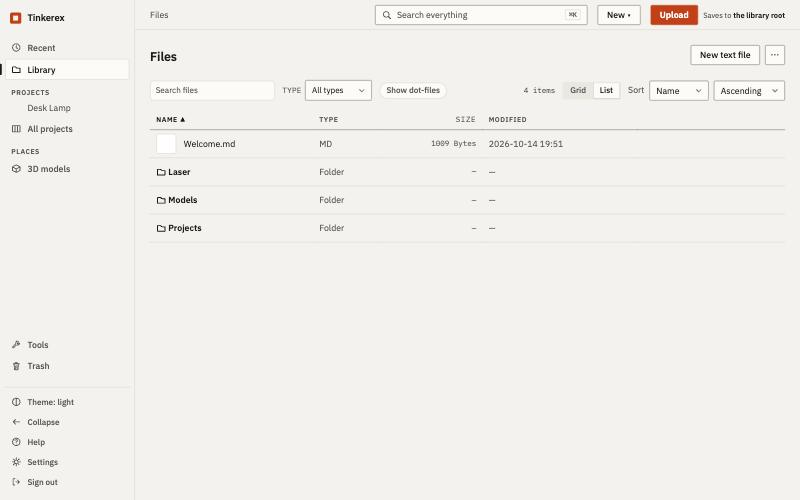
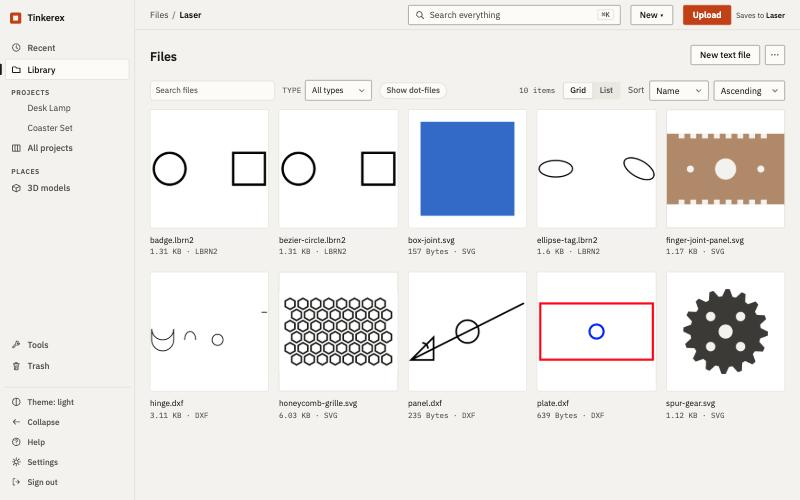
The landing's masthead stands alone, the hero centres beside the card, and the screenshots show a stocked library
The first cut put the brand in the hero AND kept it in the card, which read as a header with a
logo at both ends, and left a hole under the hero's text while the card ran on below it. The
masthead is now its own grid row above the hero; the card spans both rows and the hero centres
against it; the card drops its brand on this one page (auth_pages_test asserts the masthead's).

The three screenshots were of the public demo's near-empty library (a four-row list, a project
page with a broken README image, a static cube). They are now the app over a small sample
library on a local server: a laser folder's grid with real previews, the Desk Lamp project with
its README and rendered tiles, and an STL open in the 3D viewer. Same size, same theme, no
doctoring; the invariants note says what they are.

Verified: 49 runs green across the landing suites, the auth pages, the demo session, the CSS,
docs, template and emoji hygiene, and the landing's browser test (desktop placement, 375px
stacking, no sideways scroll); checked by eye at 1280 and 375 in both themes.

diff --git a/app/assets/stylesheets/pages/landing.css b/app/assets/stylesheets/pages/landing.css
@@ -10,34 +10,39 @@
      variant from the view and checks that it wins. */
   .landing-main { max-width: 1200px; padding-top: var(--space-6); padding-bottom: var(--space-8); }
 
-  /* ONE GRID, TWO SHAPES. A phone reads hero, card, screenshots down the page; from 900px the card
-     stands beside the hero and the screenshots run the full width under both. Named areas rather
-     than source order, so the card's DOM position (after the hero, before the shots) is the phone
-     order and the desktop placement is this sheet's business alone. `minmax(0, 1fr)` and not `1fr`:
+  /* ONE GRID, TWO SHAPES. A phone reads masthead, hero, card, screenshots down the page; from
+     900px the card stands beside the masthead and the hero, spanning both rows, and the screenshots
+     run the full width under everything. Named areas rather than source order, so the card's DOM
+     position (after the hero, before the shots) is the phone order and the desktop placement is
+     this sheet's business alone. The hero centres itself against the card (align-self), so the
+     headline sits level with the form rather than leaving a hole under itself. `minmax(0, 1fr)` and not `1fr`:
      a grid track's default minimum is its content's min-width, and an 800px image in a figure would
      hold the track open past the viewport, which is the sideways scroll rule 11 forbids. */
   .landing {
     display: grid; gap: var(--space-6);
     grid-template-columns: minmax(0, 1fr);
-    grid-template-areas: "hero" "auth" "shots";
+    grid-template-areas: "brand" "hero" "auth" "shots";
   }
+  .landing-brand { grid-area: brand; }
   .landing-hero { grid-area: hero; }
   .landing-auth { grid-area: auth; }
   .landing-shots { grid-area: shots; }
   @media (min-width: 900px) {
     .landing {
       grid-template-columns: minmax(0, 1fr) 380px;
-      grid-template-areas: "hero auth" "shots shots";
-      column-gap: var(--space-7); row-gap: var(--space-7);
+      grid-template-areas: "brand auth" "hero auth" "shots shots";
+      grid-template-rows: auto 1fr auto;
+      column-gap: var(--space-7); row-gap: var(--space-6);
       align-items: start;
     }
+    .landing-hero { align-self: center; }
   }
 
   /* The masthead is the rail's own `.brand` markup, reused (shell.css defines it once). The ≤1099px
-     rail rules hide `.brand-name` for the collapsed rail; the public header restores it with the
-     same one-line override this does. */
-  .landing-hero .brand { padding: 0; margin-bottom: var(--space-6); }
-  .landing-hero .brand-name { display: inline; }
+     rail rules hide `.brand-name` and centre `.brand` for the collapsed rail; the public header
+     restores the name with the same one-line override this does. */
+  .landing-brand { justify-content: flex-start; padding: 0; margin: 0; }
+  .landing-brand .brand-name { display: inline; }
   .landing-title { font-size: 36px; line-height: 42px; font-weight: 600; letter-spacing: -0.02em; max-width: 20ch; margin: 0 0 var(--space-4); }
   .landing-lede { font-size: 17px; line-height: 26px; color: var(--fg-muted); max-width: 56ch; margin: 0 0 var(--space-5); }
   .landing-actions { display: flex; flex-wrap: wrap; align-items: center; gap: var(--space-3) var(--space-5); margin: 0; }

diff --git a/test/system/landing_test.rb b/test/system/landing_test.rb
@@ -17,9 +17,13 @@ class LandingSystemTest < ApplicationSystemTestCase
     main_width = page.evaluate_script("document.querySelector('main#main').getBoundingClientRect().width")
     assert_operator main_width, :>, 900,
                     "main is #{main_width}px wide: the landing is still inside the 440px auth column"
-    hero_top = page.evaluate_script("document.querySelector('.landing-hero').getBoundingClientRect().top")
-    card_top = page.evaluate_script("document.querySelector('.landing-auth').getBoundingClientRect().top")
-    assert_in_delta hero_top, card_top, 1, "the card should stand beside the hero at desktop width"
+    # Beside, not below: the card's top is level with the masthead's, and the hero ends left of it.
+    brand_top = page.evaluate_script("document.querySelector('.landing-brand').getBoundingClientRect().top")
+    card = page.evaluate_script("(r => [r.left, r.top])(document.querySelector('.landing-auth').getBoundingClientRect())")
+    hero = page.evaluate_script("(r => [r.right, r.top])(document.querySelector('.landing-hero').getBoundingClientRect())")
+    assert_in_delta brand_top, card[1], 1, "the card should stand level with the masthead at desktop width"
+    assert_operator hero[0], :<=, card[0], "the hero should end left of the card, not run under it"
+    assert_operator hero[1], :>=, card[1] - 1, "the hero should sit beside the card, not above it"
     # The three screenshots run in one row under both.
     shot_tops = page.evaluate_script("[...document.querySelectorAll('.landing-shots li')].map(li => li.getBoundingClientRect().top)")
     assert_equal 1, shot_tops.uniq.size, "the screenshots should share one row at desktop width: #{shot_tops.inspect}"

diff --git a/test/integration/web/auth_pages_test.rb b/test/integration/web/auth_pages_test.rb
@@ -126,7 +126,8 @@ module Web
     test "sign in renders the card with Devise's fields" do
       get new_user_session_path
       assert_response :success
-      assert_select ".auth-card .brand-name", text: "Tinkerex"
+      # The sign-in page is the landing (2026-10-14): its masthead carries the brand, not the card.
+      assert_select ".landing-brand .brand-name", text: "Tinkerex"
       assert_select ".auth-card form[action=?] input[name='user[email]'][type='email']", user_session_path
       assert_select ".auth-card form input[name='user[password]'][type='password']"
       assert_select ".auth-card form input[name='user[remember_me]'][type='checkbox']"

diff --git a/test/integration/web/landing_test.rb b/test/integration/web/landing_test.rb
@@ -30,7 +30,8 @@ module Web
       assert_response :success
 
       assert_select "main#main.container.landing-main", 1
-      assert_select ".landing-hero .brand-name", text: "Tinkerex"
+      assert_select ".landing > .landing-brand .brand-name", text: "Tinkerex"
+      assert_select ".auth-card .brand", 0, "the masthead carries the brand; the card does not repeat it"
       assert_select ".landing-hero h1", 1
       assert_select ".landing-hero a.btn[href=?]", INSTALL_URL, text: "Install it yourself"
       assert_select ".landing-hero a[href=?]", SOURCE_URL

diff --git a/docs/invariants/design-system.md b/docs/invariants/design-system.md
@@ -159,6 +159,6 @@ already records. Guards: `files_search_test.rb`, `page_query_budget_test.rb`.
     class that wins on layer order the way `.public-main` does); the card inside it is the same
     `.auth-card` every auth page renders, so its markup, its demo button and its one accent (Log in)
     are unchanged, and the hero's install button is a quiet `.btn` (rule 13). The screenshots under
-    `app/assets/images/landing/` are the app at 1280×800 in the light theme with the demo banner
-    removed; retake them when the interface moves, never doctor them. `test/system/landing_test.rb`
+    `app/assets/images/landing/` are the app at 1280×800 in the light theme over a small sample library, the demo
+    banner removed; retake them when the interface moves, never doctor them. `test/system/landing_test.rb`
     reads the computed width and the 375px overflow, which a request test cannot see.
